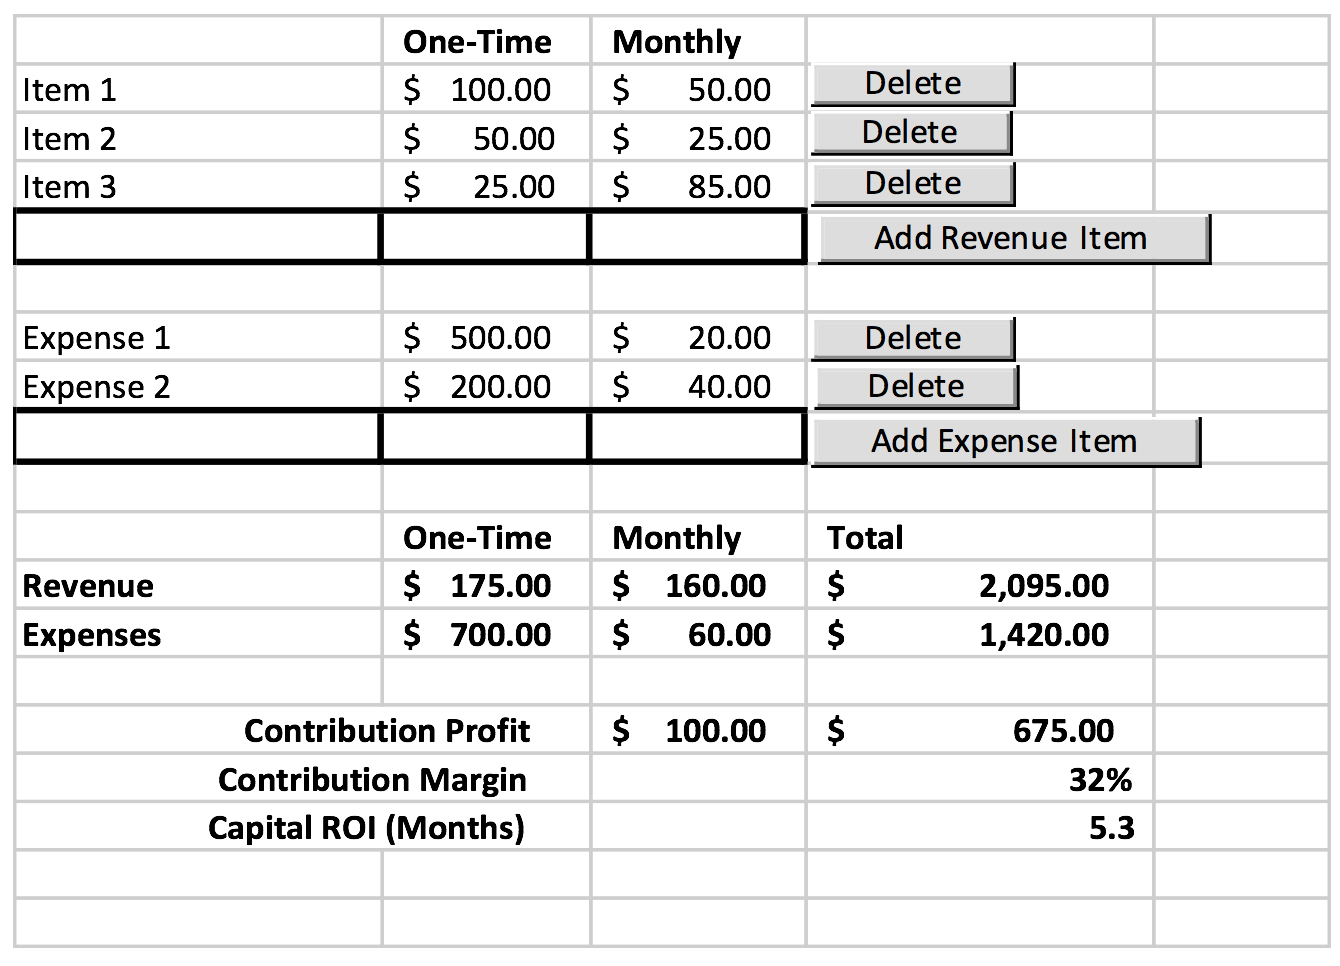
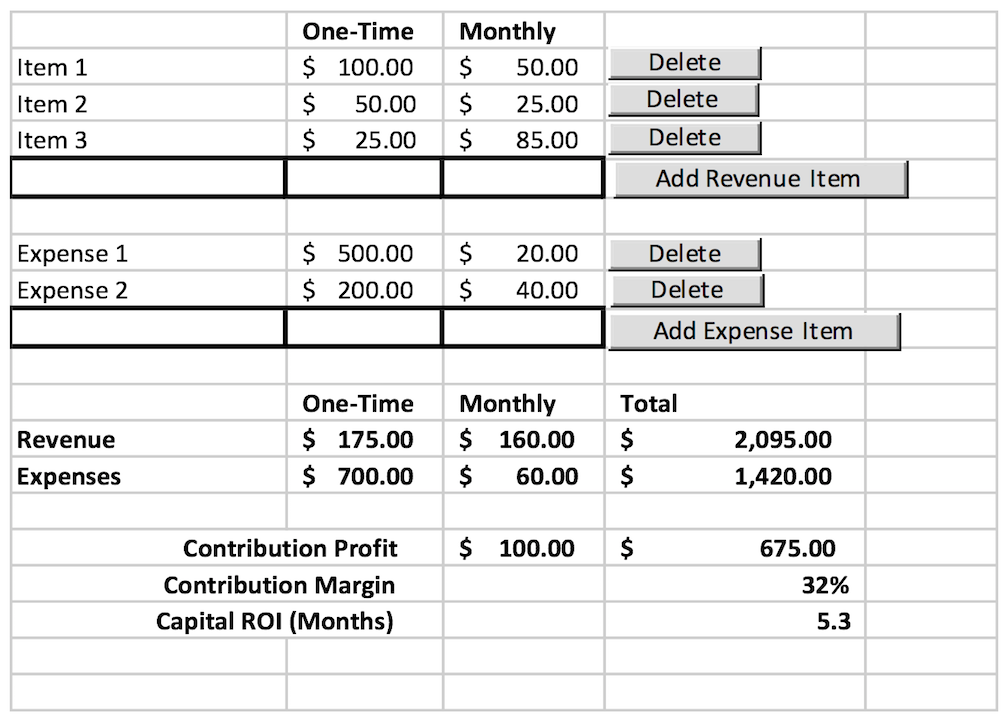
image displaying and size adjusted

diff --git a/README.md b/README.md
@@ -10,7 +10,7 @@ This application is an ROI Calculator built with React.
 
 The app was built to mimic the functionality of the spreadsheet below.
 
-![ROI Spreadsheet](sample_roi_calculator.png)
+<img src="sample_roi_spreadsheet.png" alt="ROI Spreadsheet" width="450">
 
 All of the bold fields are calculated fields and should not be editable.  As additional revenue and expense items are added, the calculated fields should update automatically on the page.  As items are deleted, the calculated fields should also update automatically on the page.
 
